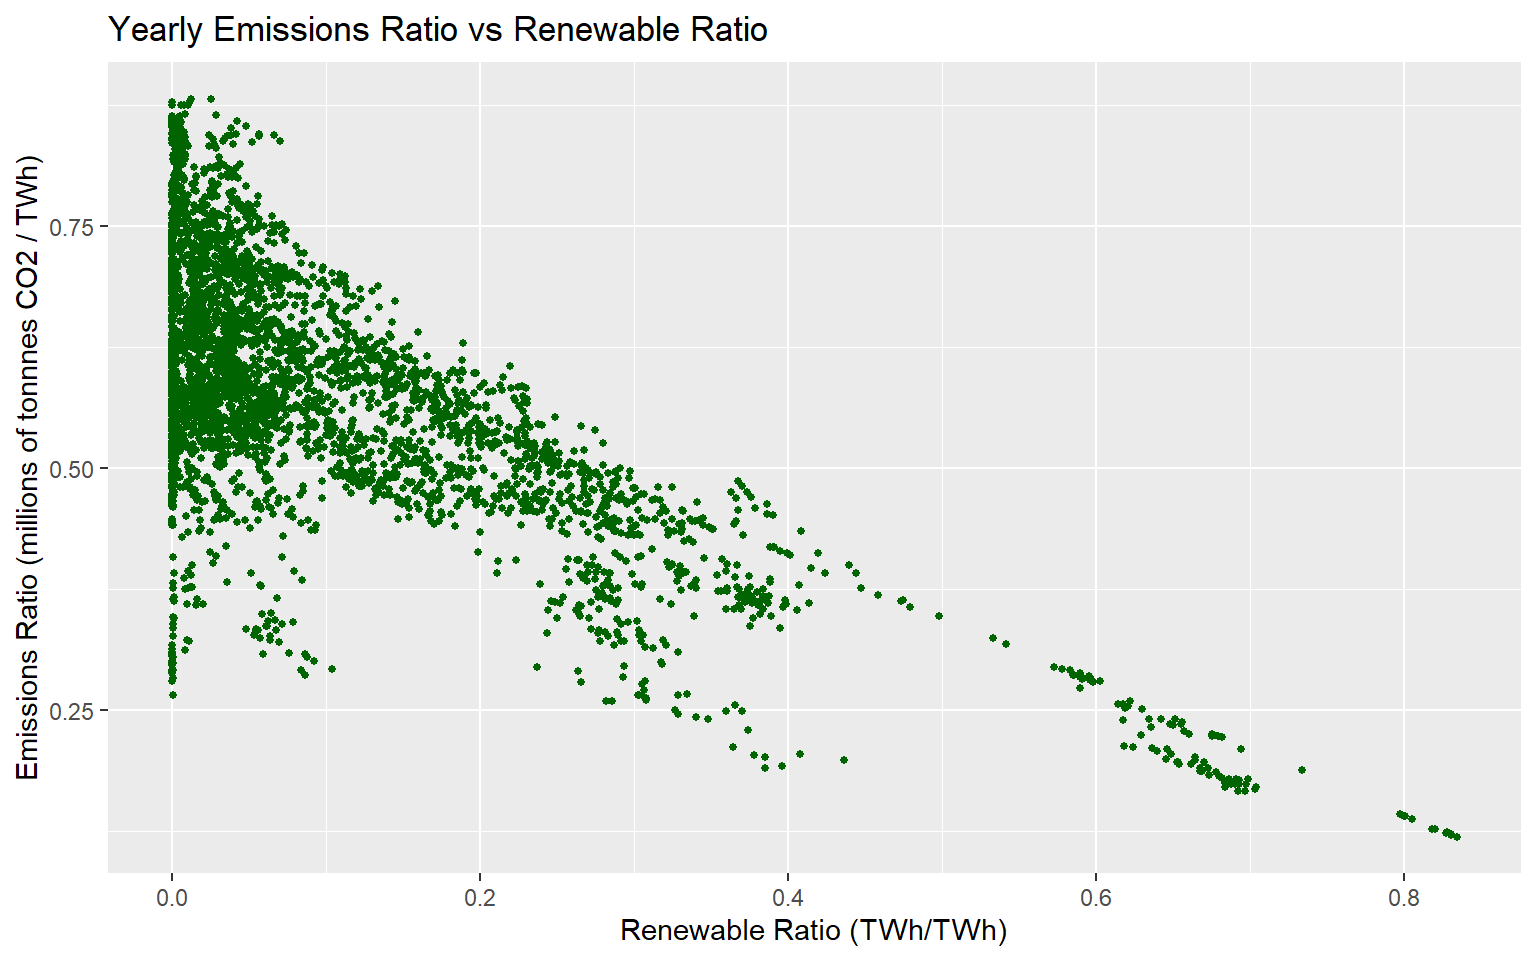
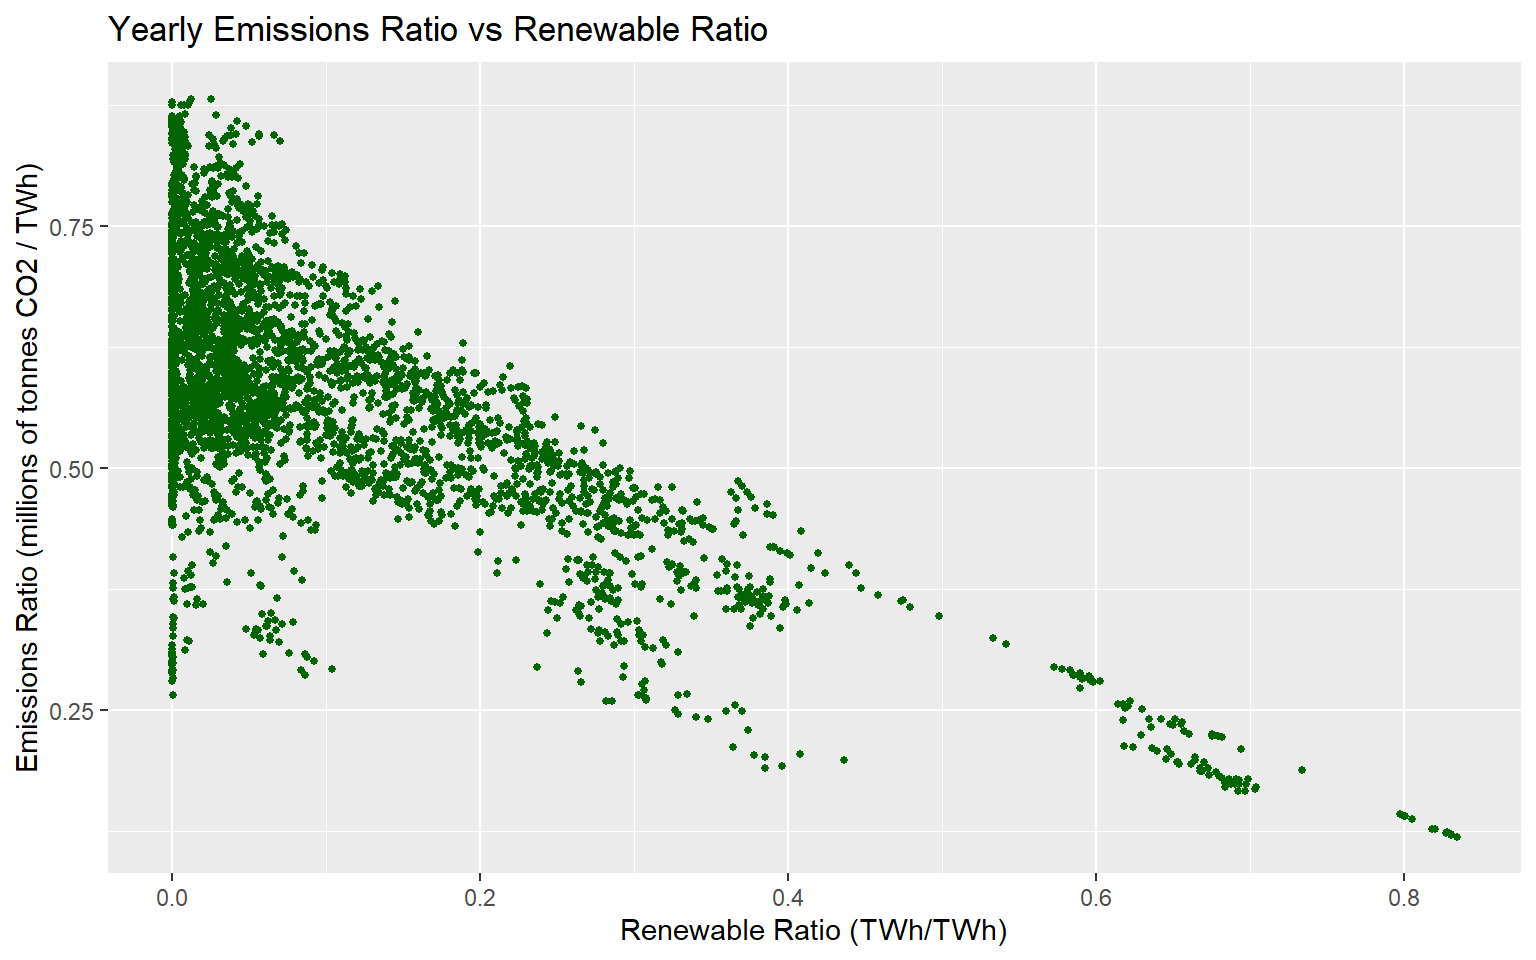
typos

Changed region(s): [[0.0, 0.1562, 0.0312, 0.8125]]

diff --git a/docs/results.html b/docs/results.html
@@ -185,9 +185,9 @@ code span.wa { color: #60a0b0; font-weight: bold; font-style: italic; } /* Warni
 <h2><span class="header-section-number">5.1</span> Energy Sources by Continents</h2>
 <p>Across the globe, countries are joining the movement towards renewable energy sources. Grouping by continents, we look at 5 main sources of energy: natural gas, coal, nuclear and renewables, measured in <strong>Million tonnes of oil equivalent (Mtoe)</strong> in <strong>2018</strong> as a PCP chart using the GGally package. Each line is colored by their continents on the right, and the corresponding countries are listed on the left. The main trends are as follows:</p>
 <ol style="list-style-type: decimal">
-<li>European countries tend to rely less on oil, natural gas and coal (non-renewebles) compared to counterpart countries in asia pacific and north america.</li>
+<li>European countries tend to rely less on oil, natural gas and coal (non-renewables) compared to counterpart countries in Asia Pacific and North America.</li>
 <li>African, Middle Eastern, Central American and CIS (Commonwealth of Independent States) countries generates the least energy across all spectrums of energy sources, with the exception of countries such as Brazil relying on renewables and Russia relying on natural gas.</li>
-<li>North america, mainly the US, generates the most energy across oil, natural gas and nuclear energy. The only country that matches the US in terms of volume is China, which generates the most energy across coal and renewables.</li>
+<li>North America, mainly the US, generates the most energy across oil, natural gas and nuclear energy. The only country that matches the US in terms of volume is China, which generates the most energy across coal and renewables.</li>
 </ol>
 <div class="sourceCode" id="cb8"><pre class="sourceCode r"><code class="sourceCode r"><a class="sourceLine" id="cb8-1" title="1">parcoords<span class="op">::</span><span class="kw">parcoords</span>(primary_energy_consumption_df,</a>
 <a class="sourceLine" id="cb8-2" title="2">  <span class="dt">rownames =</span> <span class="ot">FALSE</span>,</a>
@@ -199,13 +199,13 @@ code span.wa { color: #60a0b0; font-weight: bold; font-style: italic; } /* Warni
 <a class="sourceLine" id="cb8-8" title="8">  <span class="dt">height=</span><span class="dv">600</span>,</a>
 <a class="sourceLine" id="cb8-9" title="9">  <span class="dt">width=</span><span class="dv">800</span>,</a>
 <a class="sourceLine" id="cb8-10" title="10">  <span class="dt">withD3 =</span> <span class="ot">TRUE</span>)</a></code></pre></div>
-<div class="parcoords html-widget" height="600" id="htmlwidget-42d6b23d8ec3adad51c3" style="width:800px;height:600px; position:relative; overflow-x:auto; overflow-y:hidden; max-width:100%;" width="800"></div>
-<script type="application/json" data-for="htmlwidget-42d6b23d8ec3adad51c3">{"x":{"data":{"names":["1","2","3","4","5","6","7","8","9","10","11","12","13","14","15","16","17","18","19","20","21","22","23","24","25","26","27","28","29","30","31","32","33","34","35","36","37","38","39","40","41","42","43","44","45","46","47","48","49","50","51","52","53","54","55","56","57","58","59","60","61","62","63","64","65","66"],"country":["Canada","Mexico","US","Argentina","Brazil","Chile","Colombia","Ecuador","Peru","Trinidad & Tobago","Venezuela","Austria","Belgium","Czech Republic","Finland","France","Germany","Greece","Hungary","Italy","Netherlands","Norway","Poland","Portugal","Romania","Spain","Sweden","Switzerland","Turkey","Ukraine","United Kingdom","Azerbaijan","Belarus","Kazakhstan","Russian Federation","Turkmenistan","Uzbekistan","Iran","Iraq","Israel","Kuwait","Oman","Qatar","Saudi Arabia","United Arab Emirates","Algeria","Egypt","Morocco","South Africa","Australia","Bangladesh","China","China Hong Kong SAR","India","Indonesia","Japan","Malaysia","New Zealand","Pakistan","Philippines","Singapore","South Korea","Sri Lanka","Taiwan","Thailand","Vietnam"],"oil":[109.974271205922,82.8240326843598,919.729512949021,30.11377879096,135.914299296624,18.1452976324301,16.5697164977161,12.2120347450862,12.3880775372471,2.10207121872083,19.500253808458,13.4085405454518,34.0785547763709,10.6297870295319,10.7479067627747,78.8654119700779,113.194147378604,15.9504727597249,8.84959918393279,60.7825381949017,40.8896725149335,10.4116519030333,32.8228433223995,11.5466501608337,10.2371354102437,66.6190664548455,14.8348760265789,10.5219108336438,48.564390084111,9.57995162028812,77.0305379182892,4.64974649184277,6.80159624168707,16.3815909812932,152.318580008387,7.08992132632299,2.64299329325632,86.1685494266009,38.3727914409726,11.4553218707994,20.0476394960041,9.20439202546338,12.2073152755483,162.643982413984,45.1040517974612,19.6213675121811,36.7134413281678,13.1941349803588,26.2898116677564,53.3331624967972,9.00185520438153,641.212074276727,22.1826471246736,239.050947024653,83.4091154242409,182.364819946075,36.8847672835674,8.41016233375092,24.3382619467647,21.9593838595456,75.8209510995292,128.876573530942,5.34213901932781,50.0454838971224,65.7850463806091,24.8511518032489],"natural_gas":[99.5160395948561,76.9507477734466,702.588114015211,41.8781080661356,30.8605311034013,5.51479736156217,11.2017521474016,0.608111693358687,6.05357548097266,13.1582552155167,28.7262728502913,7.46940577070507,14.5091143594153,6.86399398108339,1.75733256902646,36.7257948131506,75.9175855384374,4.07105106408834,8.26325594726283,59.5133990607487,30.6916977166332,3.85453581490972,16.9722298735428,5.03414711904283,9.3479070257996,27.0583626773439,0.698266392350505,2.5735338148558,40.6691332760103,26.2846738717808,67.8390208486618,9.29992476354255,16.6114212641767,16.7116619320722,390.799065710945,24.4130097880317,36.6257806878931,193.943396296871,14.6597600129811,9.04808684436802,18.7257891460659,21.4058516426879,36.0215987783513,96.4051560872535,65.8331853381122,36.7454858125537,51.2038135885417,0.885328877981513,3.72778297209905,35.5947274614103,24.3898862525721,243.332726957785,2.59445405600918,49.9483437280995,33.5111460994487,99.491105477247,35.490470651119,3.73929102776265,37.4715646320858,3.51574096464789,10.5643009006148,48.1031911276889,0,20.3457762783,42.9355417717895,8.28920894239037],"coal":[14.4208763469594,11.9025855082115,317.009775412783,1.21735519602913,15.9119610230693,7.68274645770064,5.8738710235848,0,0.940755117636736,0,0.100892153538386,2.85624047527449,3.27682976891816,15.7492247534942,4.2709706697239,8.382,66.3991592624439,4.66020727839316,2.18863903329426,8.8776806513043,8.18524887742429,0.844723900345743,50.5031271196523,2.723,5.31027269210711,11.1193250733485,1.96816200181858,0.110107958345276,42.3086519532253,26.2076166479353,7.55627337182294,0.00122907749292295,0.956981425603107,40.8030395865164,88.0316406921132,0,3.08755121752811,1.49028943977406,0,4.67679412326588,0.1574153268,0.0758580407244427,0,0.104266,1.0505477524811,0.182,2.78022539611883,5.44962,85.9824329162409,44.2764813995509,2.1320792562789,1906.725,6.27409955096972,452.221237578921,61.5579921569343,117.473328255,21.1221960018499,1.26573123556326,11.5945818412826,16.2777852657493,0.912612618787973,88.2102202206,1.18083044038222,39.2989479537061,18.5027023341177,34.27910942088],"nuclear_energy":[22.6363771695609,3.07475666916448,192.23322980257,1.55509861008776,3.53717538584286,0,0,0,0,0,0,0,6.44351144508792,6.77044395166762,5.21361556581869,93.4905429095913,17.2195320631759,0,3.55998551839615,0,0.790654512037948,0,0,0,2.5743313571978,12.5908049465436,15.523328421471,5.81503085677269,0,19.097185138254,14.7223263161321,0,0,0,46.2734692492192,0,0,1.58395558974822,0,0,0,0,0,0,0,0,0,0,2.50948703443905,0,0,66.6063266506763,0,8.83619948409283,0,11.1114630945377,0,0,2.23548943295469,0,0,30.2090781554056,0,6.26383671991671,0,0],"renewables":[97.876592791304,12.1616973671777,169.079663557254,10.2880984549825,111.371176365006,8.75439701124775,13.3030025349683,4.80661123418698,7.6213806431074,0.000902627288376556,16.3130646733018,11.2616466459868,3.88121746716767,2.10517264787074,7.27670316972983,25.1325322145862,51.1587545820698,3.64525595158858,0.857369447909182,25.3128257899475,4.23103437024545,32.270184576976,4.85269493596414,6.66651581662667,5.92765324403557,23.9701678200927,20.5824503141375,8.79494569348935,21.9981125567624,2.8359358240348,25.1366244182531,0.445877268407474,0.185291768845932,2.48628669050096,43.3263361542289,0.00157487441734171,1.55410281938724,2.53233766264424,0.716070562208204,0.46114857220437,0.0238935905565008,0.00310419389404365,0.0280377817489257,0.0350436220686945,0.215779767879801,0.16518079377291,3.83719189988525,1.46723537131737,3.00386836699531,11.1225141421912,0.271065517263869,415.588872188222,0.0231954662886018,59.0962782793079,7.05171742770509,43.7005970706028,5.80181235615151,8.32364870468878,9.39282910134473,5.27807553061499,0.268584548731494,5.62265292586785,1.58251432339137,2.46478028691677,5.7467823523555,18.3676479280257],"continent":["north_america","north_america","north_america","central_america","central_america","central_america","central_america","central_america","central_america","central_america","central_america","europe","europe","europe","europe","europe","europe","europe","europe","europe","europe","europe","europe","europe","europe","europe","europe","europe","europe","europe","europe","CIS","CIS","CIS","CIS","CIS","CIS","middle_east","middle_east","middle_east","middle_east","middle_east","middle_east","middle_east","middle_east","africa","africa","africa","africa","asia_pacific","asia_pacific","asia_pacific","asia_pacific","asia_pacific","asia_pacific","asia_pacific","asia_pacific","asia_pacific","asia_pacific","asia_pacific","asia_pacific","asia_pacific","asia_pacific","asia_pacific","asia_pacific","asia_pacific"]},"options":{"rownames":false,"color":{"colorScale":"scaleOrdinal","colorBy":"continent","colorScheme":"schemeCategory10"},"brushMode":"1D-axes-multi","brushPredicate":"AND","reorderable":false,"margin":{"top":50,"bottom":50,"left":100,"right":50},"alpha":0.5,"mode":false,"bundlingStrength":0.5,"smoothness":0,"width":800,"height":600},"autoresize":false,"tasks":null},"evals":[],"jsHooks":[]}</script>
+<div class="parcoords html-widget" height="600" id="htmlwidget-46cb335fd7bc9b7088ab" style="width:800px;height:600px; position:relative; overflow-x:auto; overflow-y:hidden; max-width:100%;" width="800"></div>
+<script type="application/json" data-for="htmlwidget-46cb335fd7bc9b7088ab">{"x":{"data":{"names":["1","2","3","4","5","6","7","8","9","10","11","12","13","14","15","16","17","18","19","20","21","22","23","24","25","26","27","28","29","30","31","32","33","34","35","36","37","38","39","40","41","42","43","44","45","46","47","48","49","50","51","52","53","54","55","56","57","58","59","60","61","62","63","64","65","66"],"country":["Canada","Mexico","US","Argentina","Brazil","Chile","Colombia","Ecuador","Peru","Trinidad & Tobago","Venezuela","Austria","Belgium","Czech Republic","Finland","France","Germany","Greece","Hungary","Italy","Netherlands","Norway","Poland","Portugal","Romania","Spain","Sweden","Switzerland","Turkey","Ukraine","United Kingdom","Azerbaijan","Belarus","Kazakhstan","Russian Federation","Turkmenistan","Uzbekistan","Iran","Iraq","Israel","Kuwait","Oman","Qatar","Saudi Arabia","United Arab Emirates","Algeria","Egypt","Morocco","South Africa","Australia","Bangladesh","China","China Hong Kong SAR","India","Indonesia","Japan","Malaysia","New Zealand","Pakistan","Philippines","Singapore","South Korea","Sri Lanka","Taiwan","Thailand","Vietnam"],"oil":[109.974271205922,82.8240326843598,919.729512949021,30.11377879096,135.914299296624,18.1452976324301,16.5697164977161,12.2120347450862,12.3880775372471,2.10207121872083,19.500253808458,13.4085405454518,34.0785547763709,10.6297870295319,10.7479067627747,78.8654119700779,113.194147378604,15.9504727597249,8.84959918393279,60.7825381949017,40.8896725149335,10.4116519030333,32.8228433223995,11.5466501608337,10.2371354102437,66.6190664548455,14.8348760265789,10.5219108336438,48.564390084111,9.57995162028812,77.0305379182892,4.64974649184277,6.80159624168707,16.3815909812932,152.318580008387,7.08992132632299,2.64299329325632,86.1685494266009,38.3727914409726,11.4553218707994,20.0476394960041,9.20439202546338,12.2073152755483,162.643982413984,45.1040517974612,19.6213675121811,36.7134413281678,13.1941349803588,26.2898116677564,53.3331624967972,9.00185520438153,641.212074276727,22.1826471246736,239.050947024653,83.4091154242409,182.364819946075,36.8847672835674,8.41016233375092,24.3382619467647,21.9593838595456,75.8209510995292,128.876573530942,5.34213901932781,50.0454838971224,65.7850463806091,24.8511518032489],"natural_gas":[99.5160395948561,76.9507477734466,702.588114015211,41.8781080661356,30.8605311034013,5.51479736156217,11.2017521474016,0.608111693358687,6.05357548097266,13.1582552155167,28.7262728502913,7.46940577070507,14.5091143594153,6.86399398108339,1.75733256902646,36.7257948131506,75.9175855384374,4.07105106408834,8.26325594726283,59.5133990607487,30.6916977166332,3.85453581490972,16.9722298735428,5.03414711904283,9.3479070257996,27.0583626773439,0.698266392350505,2.5735338148558,40.6691332760103,26.2846738717808,67.8390208486618,9.29992476354255,16.6114212641767,16.7116619320722,390.799065710945,24.4130097880317,36.6257806878931,193.943396296871,14.6597600129811,9.04808684436802,18.7257891460659,21.4058516426879,36.0215987783513,96.4051560872535,65.8331853381122,36.7454858125537,51.2038135885417,0.885328877981513,3.72778297209905,35.5947274614103,24.3898862525721,243.332726957785,2.59445405600918,49.9483437280995,33.5111460994487,99.491105477247,35.490470651119,3.73929102776265,37.4715646320858,3.51574096464789,10.5643009006148,48.1031911276889,0,20.3457762783,42.9355417717895,8.28920894239037],"coal":[14.4208763469594,11.9025855082115,317.009775412783,1.21735519602913,15.9119610230693,7.68274645770064,5.8738710235848,0,0.940755117636736,0,0.100892153538386,2.85624047527449,3.27682976891816,15.7492247534942,4.2709706697239,8.382,66.3991592624439,4.66020727839316,2.18863903329426,8.8776806513043,8.18524887742429,0.844723900345743,50.5031271196523,2.723,5.31027269210711,11.1193250733485,1.96816200181858,0.110107958345276,42.3086519532253,26.2076166479353,7.55627337182294,0.00122907749292295,0.956981425603107,40.8030395865164,88.0316406921132,0,3.08755121752811,1.49028943977406,0,4.67679412326588,0.1574153268,0.0758580407244427,0,0.104266,1.0505477524811,0.182,2.78022539611883,5.44962,85.9824329162409,44.2764813995509,2.1320792562789,1906.725,6.27409955096972,452.221237578921,61.5579921569343,117.473328255,21.1221960018499,1.26573123556326,11.5945818412826,16.2777852657493,0.912612618787973,88.2102202206,1.18083044038222,39.2989479537061,18.5027023341177,34.27910942088],"nuclear_energy":[22.6363771695609,3.07475666916448,192.23322980257,1.55509861008776,3.53717538584286,0,0,0,0,0,0,0,6.44351144508792,6.77044395166762,5.21361556581869,93.4905429095913,17.2195320631759,0,3.55998551839615,0,0.790654512037948,0,0,0,2.5743313571978,12.5908049465436,15.523328421471,5.81503085677269,0,19.097185138254,14.7223263161321,0,0,0,46.2734692492192,0,0,1.58395558974822,0,0,0,0,0,0,0,0,0,0,2.50948703443905,0,0,66.6063266506763,0,8.83619948409283,0,11.1114630945377,0,0,2.23548943295469,0,0,30.2090781554056,0,6.26383671991671,0,0],"renewables":[97.876592791304,12.1616973671777,169.079663557254,10.2880984549825,111.371176365006,8.75439701124775,13.3030025349683,4.80661123418698,7.6213806431074,0.000902627288376556,16.3130646733018,11.2616466459868,3.88121746716767,2.10517264787074,7.27670316972983,25.1325322145862,51.1587545820698,3.64525595158858,0.857369447909182,25.3128257899475,4.23103437024545,32.270184576976,4.85269493596414,6.66651581662667,5.92765324403557,23.9701678200927,20.5824503141375,8.79494569348935,21.9981125567624,2.8359358240348,25.1366244182531,0.445877268407474,0.185291768845932,2.48628669050096,43.3263361542289,0.00157487441734171,1.55410281938724,2.53233766264424,0.716070562208204,0.46114857220437,0.0238935905565008,0.00310419389404365,0.0280377817489257,0.0350436220686945,0.215779767879801,0.16518079377291,3.83719189988525,1.46723537131737,3.00386836699531,11.1225141421912,0.271065517263869,415.588872188222,0.0231954662886018,59.0962782793079,7.05171742770509,43.7005970706028,5.80181235615151,8.32364870468878,9.39282910134473,5.27807553061499,0.268584548731494,5.62265292586785,1.58251432339137,2.46478028691677,5.7467823523555,18.3676479280257],"continent":["north_america","north_america","north_america","central_america","central_america","central_america","central_america","central_america","central_america","central_america","central_america","europe","europe","europe","europe","europe","europe","europe","europe","europe","europe","europe","europe","europe","europe","europe","europe","europe","europe","europe","europe","CIS","CIS","CIS","CIS","CIS","CIS","middle_east","middle_east","middle_east","middle_east","middle_east","middle_east","middle_east","middle_east","africa","africa","africa","africa","asia_pacific","asia_pacific","asia_pacific","asia_pacific","asia_pacific","asia_pacific","asia_pacific","asia_pacific","asia_pacific","asia_pacific","asia_pacific","asia_pacific","asia_pacific","asia_pacific","asia_pacific","asia_pacific","asia_pacific"]},"options":{"rownames":false,"color":{"colorScale":"scaleOrdinal","colorBy":"continent","colorScheme":"schemeCategory10"},"brushMode":"1D-axes-multi","brushPredicate":"AND","reorderable":false,"margin":{"top":50,"bottom":50,"left":100,"right":50},"alpha":0.5,"mode":false,"bundlingStrength":0.5,"smoothness":0,"width":800,"height":600},"autoresize":false,"tasks":null},"evals":[],"jsHooks":[]}</script>
 </div>
 <div id="a-closer-look-at-solar-and-wind-energy" class="section level2">
 <h2><span class="header-section-number">5.2</span> A Closer Look at Solar and Wind Energy</h2>
 <p>Renewable energy = Solar + Wind + Others (Hydro, Biomass, Biofuels).</p>
-<p>One of the largest proportions and fastest growing sources of renewable energy is Solar and Wind. Focusing on these two, we measure how countries performed in 2018 using a cleveland dot plot on Countries versus Energy Generation (Terawatt Hours), faceted on their Continents.</p>
+<p>One of the largest proportions and fastest growing sources of renewable energy is Solar and Wind. Focusing on these two, we measure how countries performed in 2018 using a Cleveland dot plot on Countries versus Energy Generation (Terawatt Hours), faceted on their Continents.</p>
 <p>The main trends are that Europe as a whole tends to rely on Solar/Wind energy consistently; whilst individual countries such as US, China, Brazil, Germany, Japan have contributed the most Solar/Wind energy by a large margin compared to the rest in their corresponding Continents. Japan is the only country that has a higher generation of Solar energy as compared to Wind energy by a relatively large margin.</p>
 <div class="sourceCode" id="cb9"><pre class="sourceCode r"><code class="sourceCode r"><a class="sourceLine" id="cb9-1" title="1"><span class="co"># Plot cleveland</span></a>
 <a class="sourceLine" id="cb9-2" title="2"><span class="kw">ggplot</span>(renewables_generation_df, <span class="kw">aes</span>(<span class="dt">x =</span> generation, <span class="dt">y =</span> <span class="kw">reorder</span>(country, generation))) <span class="op">+</span></a>
@@ -236,7 +236,7 @@ code span.wa { color: #60a0b0; font-weight: bold; font-style: italic; } /* Warni
 <a class="sourceLine" id="cb11-3" title="3"><span class="st">  </span><span class="kw">ggtitle</span>(<span class="st">&quot;US CO2 Emissions Ratio 1965-2018&quot;</span>) <span class="op">+</span></a>
 <a class="sourceLine" id="cb11-4" title="4"><span class="st">  </span><span class="kw">labs</span>(<span class="dt">x =</span> <span class="st">&quot;Year&quot;</span>, <span class="dt">y =</span> <span class="st">&quot;CO2 Emissions Ratio (millions of tonnes/TWh)&quot;</span>) </a></code></pre></div>
 <p><img src="_main_files/figure-html/unnamed-chunk-12-1.png" width="672" /></p>
-<p>This plot shows that the United States’ emissions ratio (millions of tonnes of CO2 emitted per each TWh generated) has been decreasing throughout time. This decrease implies that the US is becoming more CO2 efficient when generating power and can be due to a variety of factors, such as switching to more renewable energy sources and increaseing the efficiency of both renewable and non-renewable energy generation. We can see the relationship between the decreasing emission ratio and switching to renewable energy sources by plotting the US’s renewable ratio, which is the percent of energy consumed that was generated from renewable sources.</p>
+<p>This plot shows that the United States’ emissions ratio (millions of tonnes of CO2 emitted per each TWh generated) has been decreasing throughout time. This decrease implies that the US is becoming more CO2 efficient when generating power and can be due to a variety of factors, such as switching to more renewable energy sources and increasing the efficiency of both renewable and non-renewable energy generation. We can see the relationship between the decreasing emission ratio and switching to renewable energy sources by plotting the US’s renewable ratio, which is the percent of energy consumed that was generated from renewable sources.</p>
 <div class="sourceCode" id="cb12"><pre class="sourceCode r"><code class="sourceCode r"><a class="sourceLine" id="cb12-1" title="1"><span class="kw">ggplot</span>(df[df[<span class="st">&quot;country&quot;</span>] <span class="op">==</span><span class="st"> &quot;United States&quot;</span>,], <span class="kw">aes</span>(<span class="dt">x=</span>year, <span class="dt">y=</span>renew_energy_ratio)) <span class="op">+</span></a>
 <a class="sourceLine" id="cb12-2" title="2"><span class="st">  </span><span class="kw">geom_line</span>(<span class="dt">color=</span><span class="st">&quot;darkblue&quot;</span>, <span class="dt">size=</span><span class="dv">1</span>) <span class="op">+</span></a>
 <a class="sourceLine" id="cb12-3" title="3"><span class="st">  </span><span class="kw">ggtitle</span>(<span class="st">&quot;US Renewable Ratio 1965-2018&quot;</span>) <span class="op">+</span></a>
@@ -247,7 +247,7 @@ code span.wa { color: #60a0b0; font-weight: bold; font-style: italic; } /* Warni
 <div class="sourceCode" id="cb13"><pre class="sourceCode r"><code class="sourceCode r"><a class="sourceLine" id="cb13-1" title="1"><span class="kw">ggplot</span>(df, <span class="kw">aes</span>(<span class="dt">x=</span>renew_energy_ratio, <span class="dt">y=</span>emission_power_ratio)) <span class="op">+</span></a>
 <a class="sourceLine" id="cb13-2" title="2"><span class="st">  </span><span class="kw">geom_point</span>(<span class="dt">color=</span><span class="st">&quot;darkgreen&quot;</span>, <span class="dt">size=</span><span class="dv">1</span>) <span class="op">+</span></a>
 <a class="sourceLine" id="cb13-3" title="3"><span class="st">  </span><span class="kw">ggtitle</span>(<span class="st">&quot;Yearly Emissions Ratio vs Renewable Ratio&quot;</span>) <span class="op">+</span></a>
-<a class="sourceLine" id="cb13-4" title="4"><span class="st">  </span><span class="kw">labs</span>(<span class="dt">x =</span> <span class="st">&quot;Renewable Ratio (TWh/TWh)&quot;</span>, <span class="dt">y =</span> <span class="st">&quot;Emissions Ratio (millions of tonnnes CO2 / TWh)&quot;</span>) </a></code></pre></div>
+<a class="sourceLine" id="cb13-4" title="4"><span class="st">  </span><span class="kw">labs</span>(<span class="dt">x =</span> <span class="st">&quot;Renewable Ratio (TWh/TWh)&quot;</span>, <span class="dt">y =</span> <span class="st">&quot;Emissions Ratio (millions of tonnes CO2 / TWh)&quot;</span>) </a></code></pre></div>
 <pre><code>## Warning: Removed 168 rows containing missing values (geom_point).</code></pre>
 <p><img src="_main_files/figure-html/unnamed-chunk-14-1.png" width="768" /></p>
 <p>Additionally the large number of points on the left side of the plot is likely the result of countrys’ having a low renewable ratio. These countries with low renewable ratios likely won’t see a impact on their emissions as a result of renewables because of the low amount of renewable energy. As a result, there isn’t a relationship between renewables and emissions when renewables is close to zero, so the emissions ratios for these low renewable energy countries varies widely. However, when moving toward higher renewable ratios, the downward trends begins appearing.</p>

diff --git a/interactive/js/rain.js b/interactive/js/rain.js
@@ -41,5 +41,3 @@ var makeItRain = function() {
 };
 
 makeItRain();
-
-// Cloud code adapted from https://codepen.io/bbilginn/pen/ctKxu
